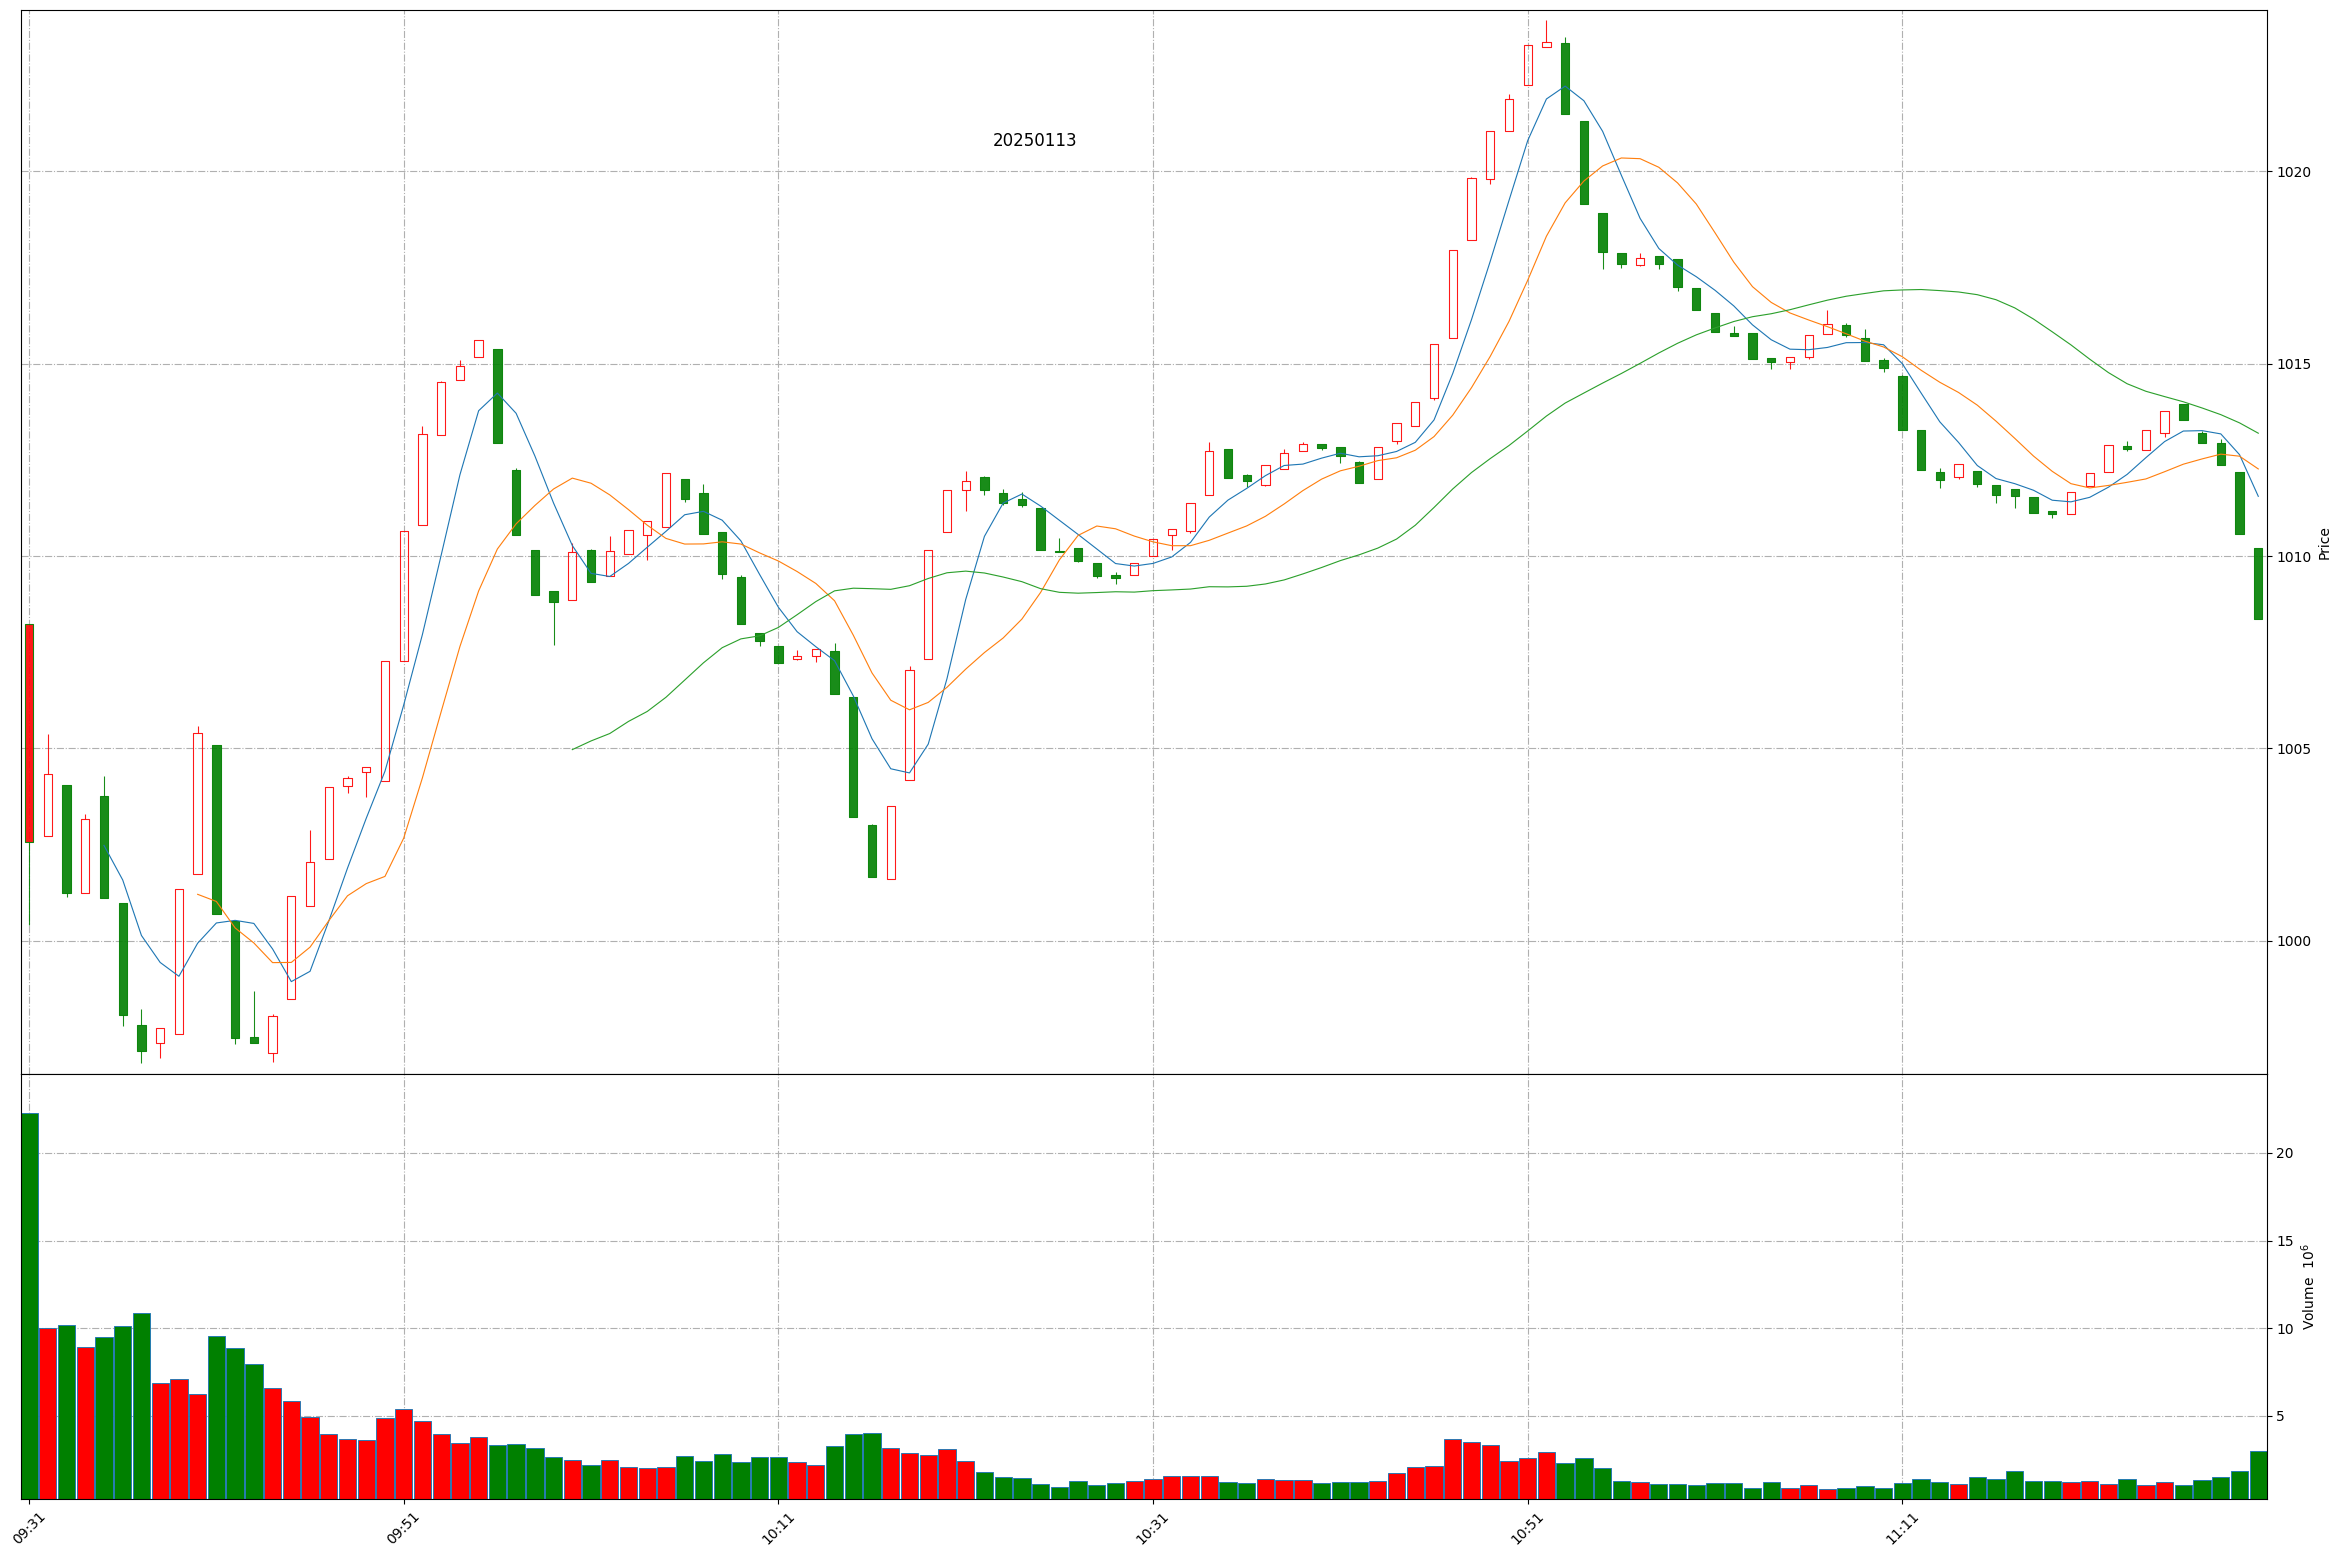
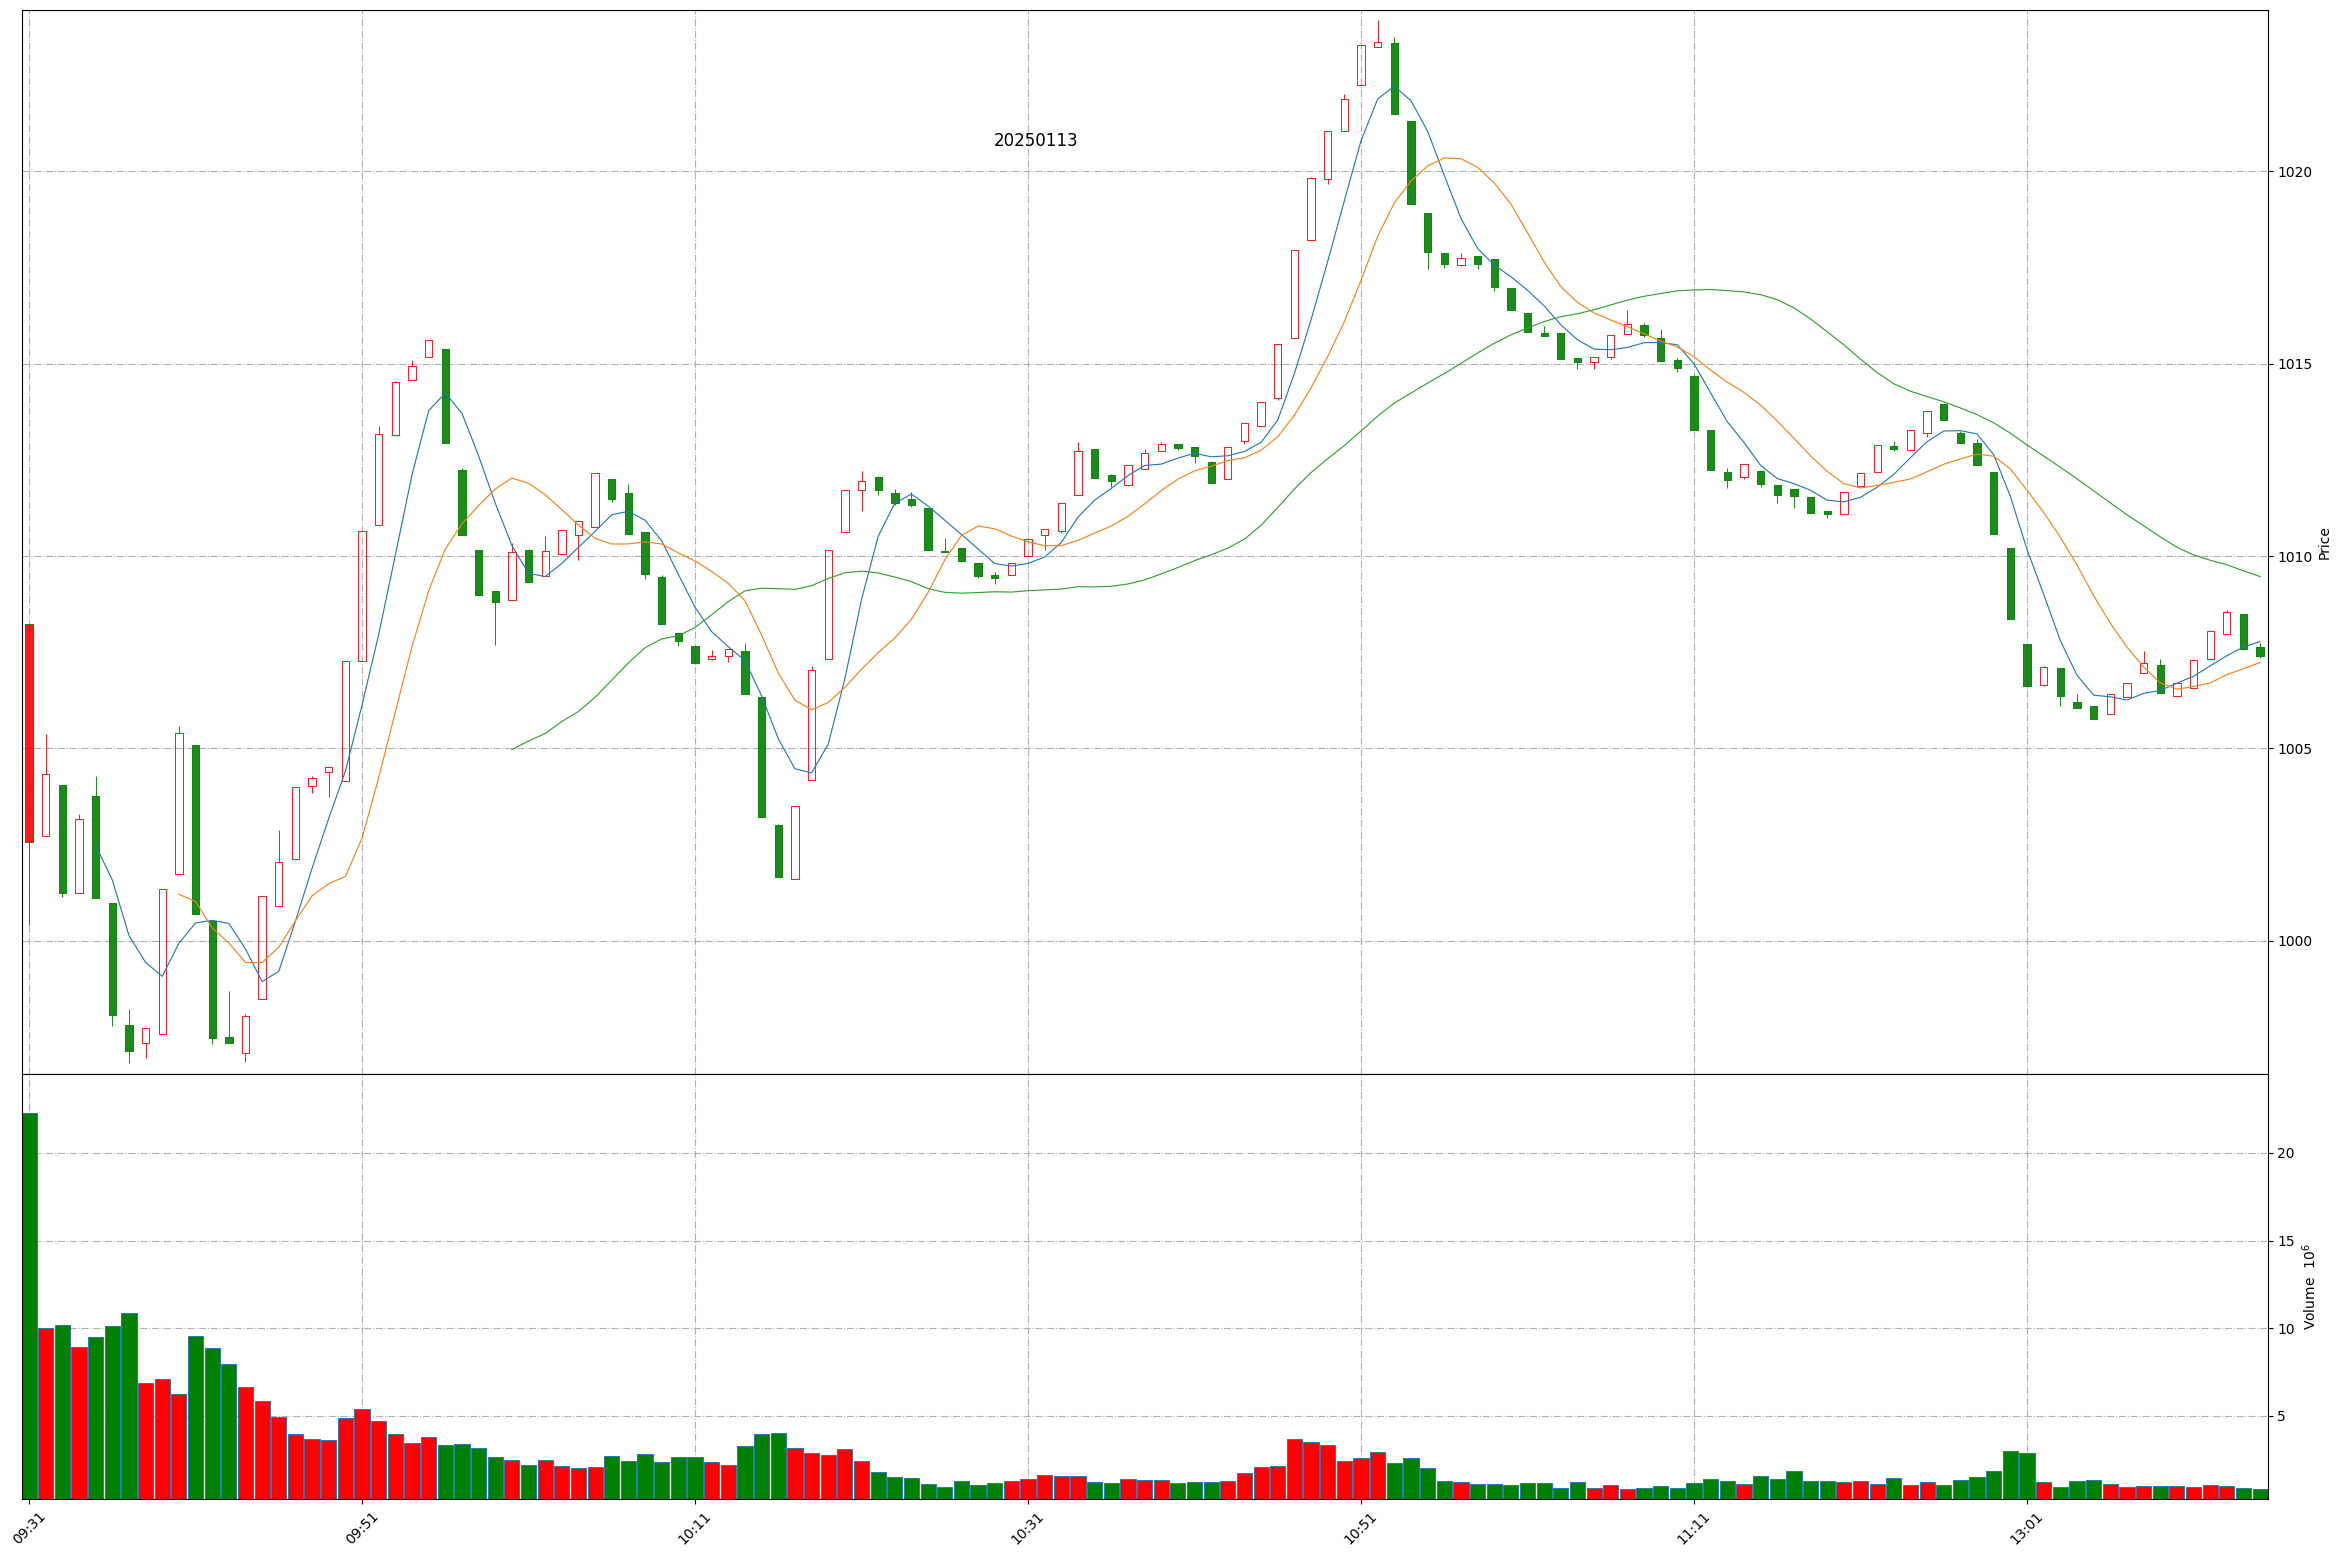
Github action update at 2025-01-13 13:14:58.

diff --git a/README.md b/README.md
@@ -1,11 +1,11 @@
 
 # Daily-A-share-market-quotes 每日 A 股指数（5min 更新）- 20250113
 
-### 上证指数 20250113 11:44
+### 上证指数 20250113 13:14
 ![](./fig/2025/1/20250113-sh000001.png)
 
-### 深证成指 20250113 11:44
+### 深证成指 20250113 13:14
 ![](./fig/2025/1/20250113-sz399001.png)
 
-### 北证50 20250113 11:44
+### 北证50 20250113 13:14
 ![](./fig/2025/1/20250113-bj899050.png)
